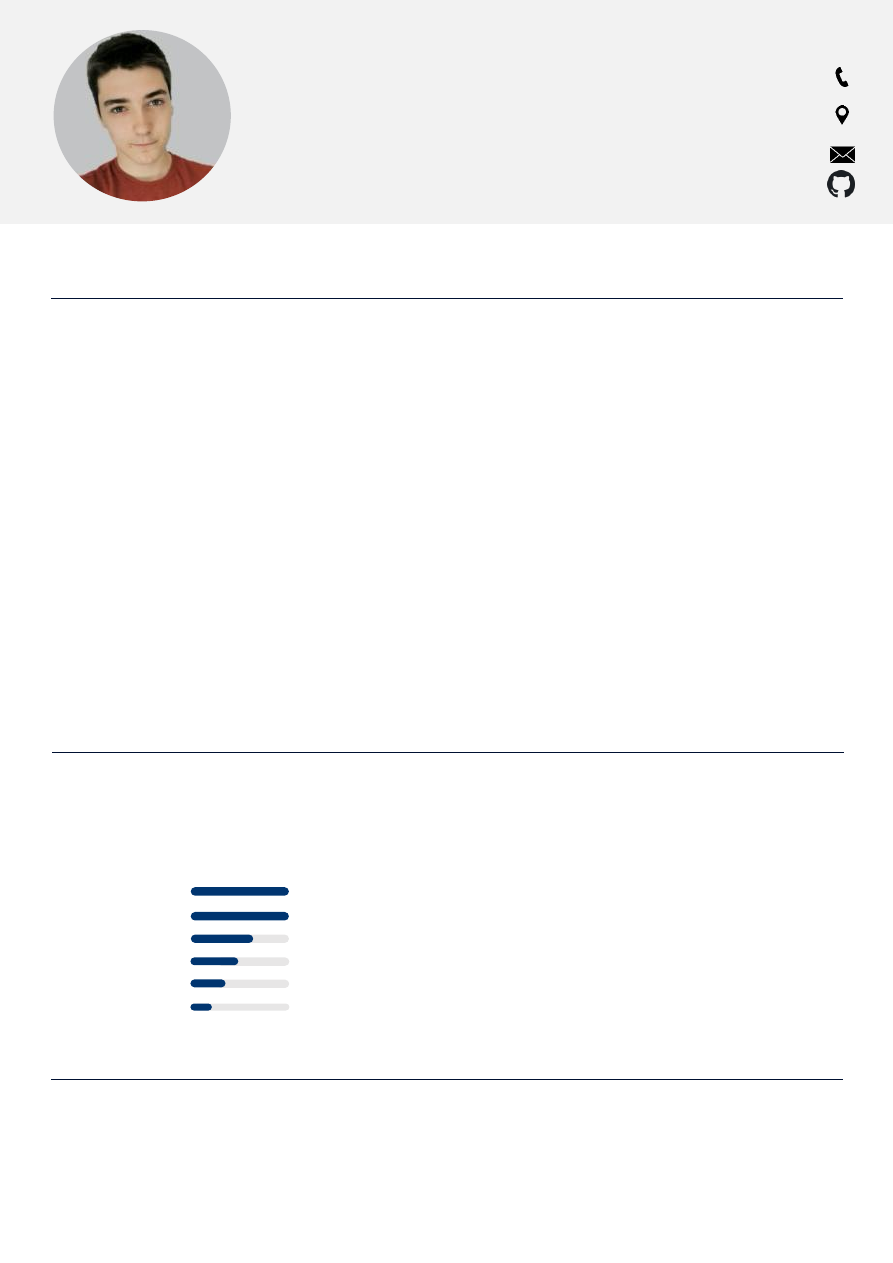
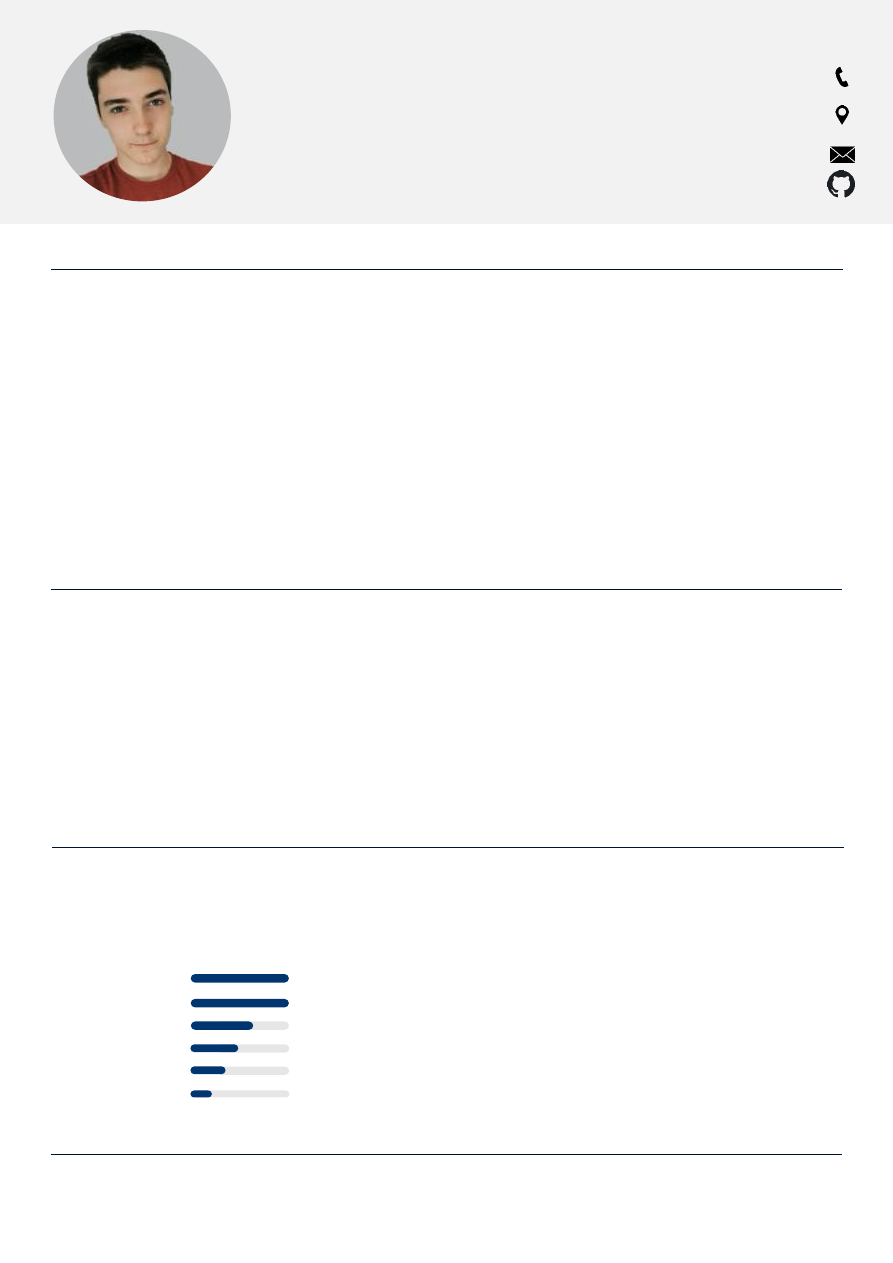
Add files via upload

Changed region(s): [[0.2116, 0.6793, 0.3326, 0.8955]]

diff --git a/Files/CV_Axel_Thauvin (1)/p1el3q3q9t16onq41fa11h9dqhe4-html.html b/Files/CV_Axel_Thauvin (1)/p1el3q3q9t16onq41fa11h9dqhe4-html.html
@@ -1,0 +1,137 @@
+<!DOCTYPE html>
+<html xmlns="http://www.w3.org/1999/xhtml" lang="" xml:lang="">
+<head>
+<title></title>
+
+<meta http-equiv="Content-Type" content="text/html; charset=UTF-8"/>
+ <br/>
+<style type="text/css">
+<!--
+	p {margin: 0; padding: 0;}	.ft10{font-size:58px;font-family:Arial;color:#46394f;}
+	.ft11{font-size:14px;font-family:Arial;color:#000000;}
+	.ft12{font-size:25px;font-family:Arial;color:#46394f;}
+	.ft13{font-size:40px;font-family:Arial;color:#46394f;}
+	.ft14{font-size:40px;font-family:Arial;color:#000000;}
+	.ft15{font-size:16px;font-family:Arial;color:#001131;}
+	.ft16{font-size:16px;font-family:Arial;color:#001131;}
+	.ft17{font-size:20px;font-family:Arial;color:#001131;}
+	.ft18{font-size:13px;font-family:Arial;color:#000000;}
+	.ft19{font-size:14px;font-family:Arial;color:#000000;}
+	.ft110{font-size:40px;font-family:Arial;color:#000000;}
+	.ft111{font-size:16px;font-family:Arial;color:#000000;}
+	.ft112{font-size:13px;font-family:Arial;color:#000000;}
+	.ft113{font-size:13px;font-family:Symbol;color:#000000;}
+	.ft114{font-size:27px;font-family:Arial;color:#000000;}
+	.ft115{font-size:14px;font-family:Arial;color:#000000;}
+	.ft116{font-size:11px;font-family:Arial;color:#000000;}
+	.ft117{font-size:25px;line-height:45px;font-family:Arial;color:#46394f;}
+	.ft118{font-size:13px;line-height:22px;font-family:Arial;color:#000000;}
+	.ft119{font-size:14px;line-height:20px;font-family:Arial;color:#000000;}
+	.ft120{font-size:14px;line-height:21px;font-family:Arial;color:#000000;}
+
+	body{
+		display: flex;
+		justify-content: center;
+	
+	}
+-->
+</style>
+</head>
+<body bgcolor="white" vlink="blue" link="blue">
+<div id="page1-div" style="position:relative;width:892px;height:1262px;">
+<img width="892" height="1262" src="target001.png" alt="background image"/>
+<p style="position:absolute;top:106px;left:127px;white-space:nowrap" class="ft10"><b>&#160;</b></p>
+<p style="position:absolute;top:197px;left:127px;white-space:nowrap" class="ft11">&#160;</p>
+<p style="position:absolute;top:231px;left:127px;white-space:nowrap" class="ft11">&#160;</p>
+<p style="position:absolute;top:264px;left:127px;white-space:nowrap" class="ft11">&#160;</p>
+<p style="position:absolute;top:298px;left:127px;white-space:nowrap" class="ft11">&#160;</p>
+<p style="position:absolute;top:332px;left:127px;white-space:nowrap" class="ft11">&#160;</p>
+<p style="position:absolute;top:366px;left:127px;white-space:nowrap" class="ft11">&#160;</p>
+<p style="position:absolute;top:400px;left:127px;white-space:nowrap" class="ft11">&#160;</p>
+<p style="position:absolute;top:433px;left:127px;white-space:nowrap" class="ft11">&#160;</p>
+<p style="position:absolute;top:467px;left:127px;white-space:nowrap" class="ft11">&#160;</p>
+<p style="position:absolute;top:497px;left:127px;white-space:nowrap" class="ft117"><b>&#160;<br/>&#160;</b></p>
+<p style="position:absolute;top:588px;left:127px;white-space:nowrap" class="ft10"><b>&#160;</b></p>
+<p style="position:absolute;top:675px;left:127px;white-space:nowrap" class="ft13"><b>&#160;</b></p>
+<p style="position:absolute;top:744px;left:127px;white-space:nowrap" class="ft11">&#160;</p>
+<p style="position:absolute;top:777px;left:127px;white-space:nowrap" class="ft11">&#160;</p>
+<p style="position:absolute;top:811px;left:127px;white-space:nowrap" class="ft11">&#160;</p>
+<p style="position:absolute;top:845px;left:127px;white-space:nowrap" class="ft11">&#160;</p>
+<p style="position:absolute;top:878px;left:127px;white-space:nowrap" class="ft11">&#160;</p>
+<p style="position:absolute;top:912px;left:127px;white-space:nowrap" class="ft11">&#160;</p>
+<p style="position:absolute;top:946px;left:127px;white-space:nowrap" class="ft11">&#160;</p>
+<p style="position:absolute;top:980px;left:127px;white-space:nowrap" class="ft11">&#160;</p>
+<p style="position:absolute;top:1014px;left:127px;white-space:nowrap" class="ft11">&#160;</p>
+<p style="position:absolute;top:1047px;left:127px;white-space:nowrap" class="ft11">&#160;</p>
+<p style="position:absolute;top:36px;left:264px;white-space:nowrap" class="ft14">Axel&#160;</p>
+<p style="position:absolute;top:195px;left:265px;white-space:nowrap" class="ft15"><i>Lycéen&#160;en&#160;première&#160;à&#160;l’Institut&#160;Notre&#160;Dame&#160;</i></p>
+<p style="position:absolute;top:191px;left:612px;white-space:nowrap" class="ft16">&#160;</p>
+<p style="position:absolute;top:242px;left:56px;white-space:nowrap" class="ft17"><b>FORMATION&#160;</b></p>
+<p style="position:absolute;top:317px;left:272px;white-space:nowrap" class="ft18"><i>Institut&#160;Notre&#160;Dame,&#160;Bourg-la-Reine&#160;</i></p>
+<p style="position:absolute;top:301px;left:269px;white-space:nowrap" class="ft19"><b>Classe&#160;de&#160;Première&#160;en&#160;filière&#160;général&#160;:&#160;NSI&#160;Mathématiques&#160;Physique-Chimie.&#160;</b></p>
+<p style="position:absolute;top:295px;left:55px;white-space:nowrap" class="ft19"><b>2020&#160;-&#160;2021&#160;</b></p>
+<p style="position:absolute;top:80px;left:263px;white-space:nowrap" class="ft110"><b>THAUVIN&#160;</b></p>
+<p style="position:absolute;top:73px;left:708px;white-space:nowrap" class="ft11">06&#160;51&#160;31&#160;50&#160;09&#160;</p>
+<p style="position:absolute;top:1121px;left:51px;white-space:nowrap" class="ft17"><b>CENTRES&#160;D’INTÉRÊT&#160;</b></p>
+<p style="position:absolute;top:1176px;left:64px;white-space:nowrap" class="ft118">✓&#160;&#160;Sports&#160;:&#160;gymnastique&#160;artistique&#160;masculine&#160;en&#160;compétition&#160;depuis&#160;9&#160;ans&#160;;&#160;course&#160;à&#160;pied&#160;<br/>✓&#160;&#160;Intelligence&#160;artificielle,&#160;électronique&#160;(Arduino),&#160;robotique&#160;<br/>✓&#160;&#160;Participation&#160;à&#160;des&#160;Hackatons&#160;&#160;-&#160;«&#160;Mini-hackaton&#160;Startup&#160;for&#160;kid&#160;»,&#160;Ecole&#160;42,&#160;Paris&#160;(2016)&#160;&#160;&#160;</p>
+<p style="position:absolute;top:1246px;left:299px;white-space:nowrap" class="ft112">-&#160;</p>
+<p style="position:absolute;top:1246px;left:326px;white-space:nowrap" class="ft112">«&#160;Ludum&#160;Dare&#160;46&#160;»&#160;(2020)&#160;https://ldjam.com/events/ludum-dare/46/radiohead&#160;</p>
+<p style="position:absolute;top:354px;left:269px;white-space:nowrap" class="ft19"><b>Brevet&#160;des&#160;collèges,&#160;mention&#160;très&#160;bien&#160;</b></p>
+<p style="position:absolute;top:354px;left:55px;white-space:nowrap" class="ft19"><b>2019&#160;</b></p>
+<p style="position:absolute;top:438px;left:266px;white-space:nowrap" class="ft18"><i>Formation&#160;de&#160;7h,&#160;Croix&#160;Rouge,&#160;Bagneux&#160;</i></p>
+<p style="position:absolute;top:416px;left:265px;white-space:nowrap" class="ft19"><b>Certificat&#160;de&#160;formation&#160;prévention&#160;et&#160;secours&#160;civiques,&#160;PSC1&#160;</b></p>
+<p style="position:absolute;top:101px;left:647px;white-space:nowrap" class="ft11">20&#160;avenue&#160;J.M.&#160;Dolivet,&#160;</p>
+<p style="position:absolute;top:123px;left:618px;white-space:nowrap" class="ft11">92260&#160;Fontenay&#160;aux&#160;Roses&#160;</p>
+<p style="position:absolute;top:145px;left:601px;white-space:nowrap" class="ft111">&#160;</p>
+<p style="position:absolute;top:149px;left:651px;white-space:nowrap" class="ft11">ax.thauvin@gmail.com</p>
+<p style="position:absolute;top:148px;left:818px;white-space:nowrap" class="ft111">&#160;</p>
+<p style="position:absolute;top:817px;left:54px;white-space:nowrap" class="ft17"><b>COMPETENCES&#160;</b></p>
+<p style="position:absolute;top:375px;left:270px;white-space:nowrap" class="ft18"><i>Institut&#160;Notre&#160;Dame,&#160;Bourg-la-Reine&#160;</i></p>
+<p style="position:absolute;top:414px;left:54px;white-space:nowrap" class="ft19"><b>2018&#160;</b></p>
+<p style="position:absolute;top:621px;left:268px;white-space:nowrap" class="ft19"><b>Enseignement&#160;en&#160;programmation</b></p>
+<p style="position:absolute;top:621px;left:530px;white-space:nowrap" class="ft111">&#160;</p>
+<p style="position:absolute;top:620px;left:55px;white-space:nowrap" class="ft19"><b>2020&#160;-&#160;2021&#160;</b></p>
+<p style="position:absolute;top:860px;left:68px;white-space:nowrap" class="ft19"><b>Langues&#160;&#160;</b></p>
+<p style="position:absolute;top:881px;left:68px;white-space:nowrap" class="ft113"></p>
+<p style="position:absolute;top:885px;left:75px;white-space:nowrap" class="ft112">&#160;</p>
+<p style="position:absolute;top:885px;left:95px;white-space:nowrap" class="ft112">Anglais,&#160;certifié&#160;niveau&#160;B2&#160;</p>
+<p style="position:absolute;top:904px;left:68px;white-space:nowrap" class="ft113"></p>
+<p style="position:absolute;top:909px;left:75px;white-space:nowrap" class="ft112">&#160;</p>
+<p style="position:absolute;top:909px;left:95px;white-space:nowrap" class="ft112">Espagnol,&#160;niveau&#160;A2&#160;</p>
+<p style="position:absolute;top:932px;left:68px;white-space:nowrap" class="ft111">&#160;</p>
+<p style="position:absolute;top:946px;left:69px;white-space:nowrap" class="ft19"><b>Programmation&#160;&#160;</b></p>
+<p style="position:absolute;top:968px;left:69px;white-space:nowrap" class="ft113"></p>
+<p style="position:absolute;top:972px;left:76px;white-space:nowrap" class="ft112">&#160;</p>
+<p style="position:absolute;top:972px;left:96px;white-space:nowrap" class="ft112">Scratch&#160;</p>
+<p style="position:absolute;top:991px;left:69px;white-space:nowrap" class="ft113"></p>
+<p style="position:absolute;top:996px;left:76px;white-space:nowrap" class="ft112">&#160;</p>
+<p style="position:absolute;top:996px;left:96px;white-space:nowrap" class="ft112">AppInventor&#160;</p>
+<p style="position:absolute;top:1015px;left:69px;white-space:nowrap" class="ft113"></p>
+<p style="position:absolute;top:1019px;left:76px;white-space:nowrap" class="ft112">&#160;</p>
+<p style="position:absolute;top:1019px;left:96px;white-space:nowrap" class="ft112">Python&#160;</p>
+<p style="position:absolute;top:1038px;left:69px;white-space:nowrap" class="ft113"></p>
+<p style="position:absolute;top:1042px;left:76px;white-space:nowrap" class="ft112">&#160;</p>
+<p style="position:absolute;top:1042px;left:96px;white-space:nowrap" class="ft112">Unity&#160;</p>
+<p style="position:absolute;top:1062px;left:69px;white-space:nowrap" class="ft113"></p>
+<p style="position:absolute;top:1066px;left:76px;white-space:nowrap" class="ft112">&#160;</p>
+<p style="position:absolute;top:1066px;left:96px;white-space:nowrap" class="ft112">HTML,&#160;CSS&#160;</p>
+<p style="position:absolute;top:1085px;left:69px;white-space:nowrap" class="ft113"></p>
+<p style="position:absolute;top:1089px;left:76px;white-space:nowrap" class="ft112">&#160;</p>
+<p style="position:absolute;top:1089px;left:96px;white-space:nowrap" class="ft112">Javascript&#160;</p>
+<p style="position:absolute;top:1113px;left:69px;white-space:nowrap" class="ft111">&#160;</p>
+<p style="position:absolute;top:160px;left:261px;white-space:nowrap" class="ft114">16&#160;ans&#160;</p>
+<p style="position:absolute;top:700px;left:268px;white-space:nowrap" class="ft19"><b>Intervenant&#160;au festival&#160;“Oh my&#160;code”&#160;</b>(17&#160;juin&#160;2017)<b>&#160;</b></p>
+<p style="position:absolute;top:723px;left:268px;white-space:nowrap" class="ft111">&#160;</p>
+<p style="position:absolute;top:704px;left:56px;white-space:nowrap" class="ft19"><b>2017&#160;</b></p>
+<p style="position:absolute;top:727px;left:268px;white-space:nowrap" class="ft120"><i>Initiation&#160;à&#160;Scratch&#160;pour&#160;les&#160;visiteurs,&#160;Parc&#160;de&#160;La&#160;Villette,&#160;Paris&#160;<br/>&#160;<br/>&#160;</i></p>
+<p style="position:absolute;top:643px;left:268px;white-space:nowrap" class="ft115"><i>Cours&#160;enfants&#160;(7-15&#160;ans):&#160;Scratch&#160;/&#160;AppInventor&#160;</i></p>
+<p style="position:absolute;top:645px;left:623px;white-space:nowrap" class="ft116"><i>(2&#160;élèves&#160;;&#160;1h/semaine)&#160;</i></p>
+<p style="position:absolute;top:664px;left:268px;white-space:nowrap" class="ft115"><i>Cours&#160;adultes&#160;:&#160;Unity&#160;&#160;</i></p>
+<p style="position:absolute;top:666px;left:430px;white-space:nowrap" class="ft116"><i>(1&#160;élève&#160;;&#160;1h/semaine)&#160;</i></p>
+<a style="position:absolute;top:176px;left:612px;white-space:nowrap" class="ft11" href="https://github.com/Globateur" target="_blank">https://github.com/Globateur&#160;</a>
+<p style="position:absolute;top:1265px;left:700px;white-space:nowrap" class="ft11">Généré grâce à : &#160; </p>
+<a style="position:absolute;top:1265px;left:810px;white-space:nowrap" class="ft11" href="https://www.zamzar.com/" target="_blank">Zamar.com</a>
+<p style="position:absolute;top:560px;left:53px;white-space:nowrap" class="ft17"><b>EXPERIENCE&#160;PROFESSIONNELLE&#160;</b></p>
+</div>
+</body>
+</html>
